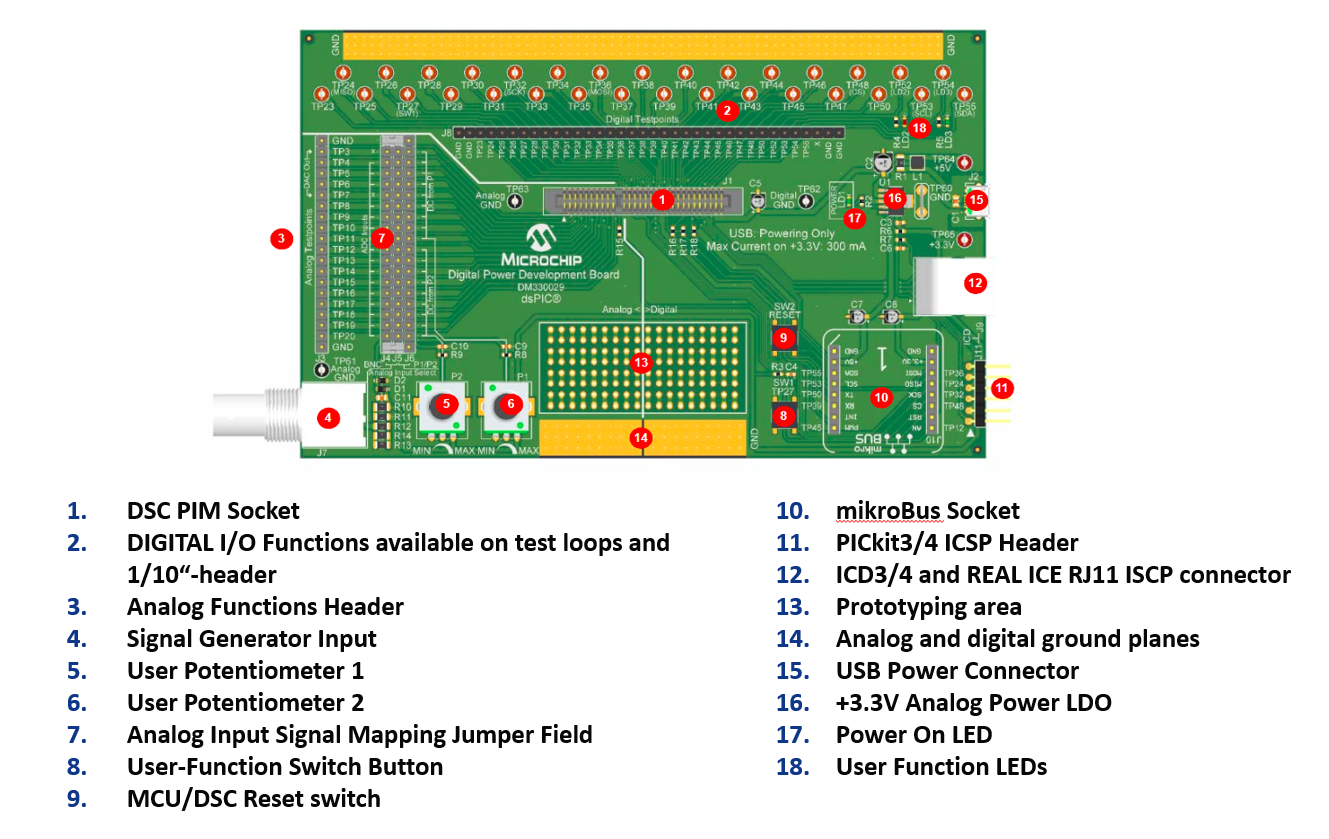
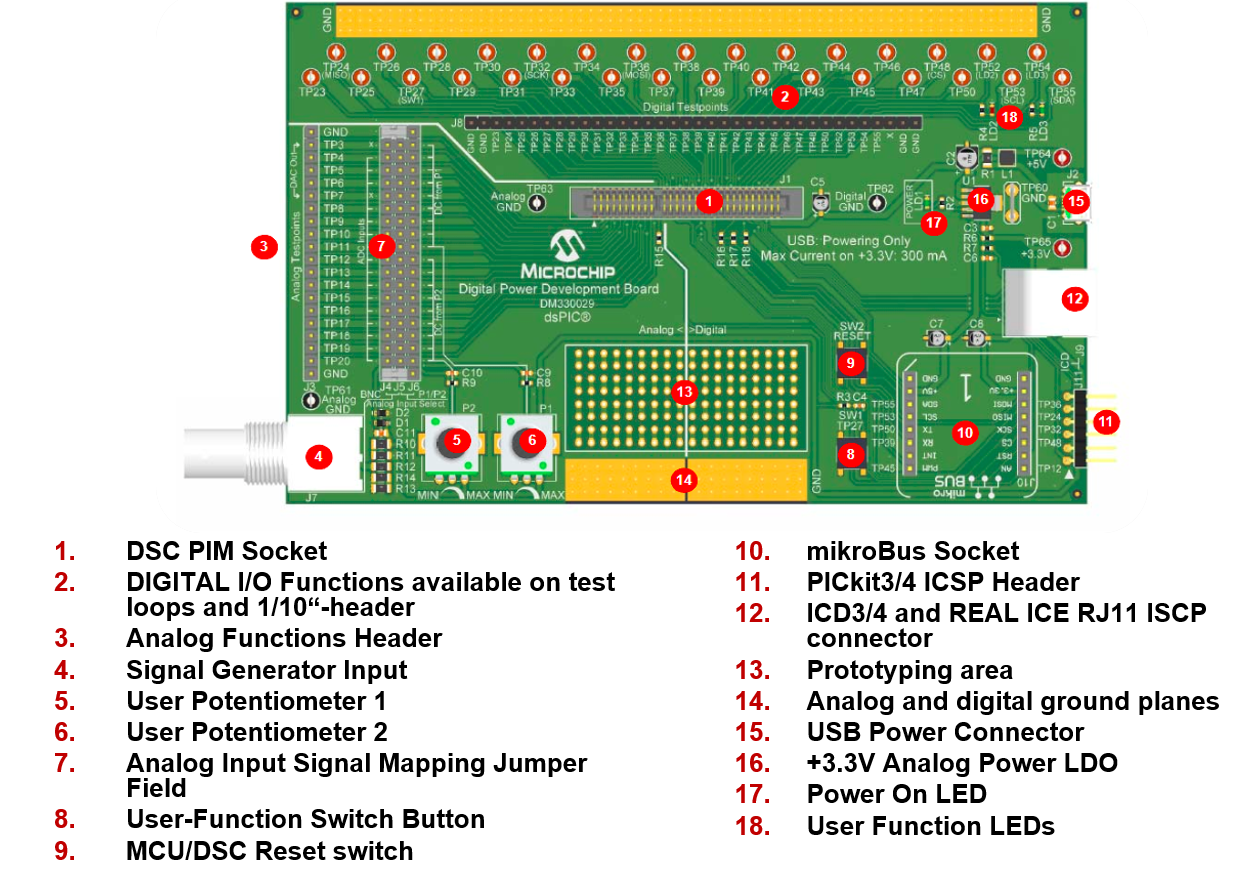
Fixed display issues with line endings and picture size in readme.md

diff --git a/readme.md b/readme.md
@@ -11,14 +11,17 @@
 - - -
 
 ## Summary
-Learning how to use the High Resolution PWM Module of dsPIC33C MP devices, Lab 1:
-Code example for dsPIC33CK and dsPIC33CH devices showing a basic configuration of the high-resolution PWM module using one PWM generator channel generating a single, complementary PWM waveform
+Learning how to use the High Resolution PWM Module of dsPIC33C MP devices 
+
+Lab 1: Complementary Waveform Generation
+Code example for dsPIC33CK and dsPIC33CH devices introducing the basic configuration of the high-resolution PWM module using one PWM generator channel generating a single, complementary PWM waveform
 
 - - -
 
 ## Related Documentation
 - [dsPIC33CK256MP508 Family Data Sheet](https://ww1.microchip.com/downloads/en/DeviceDoc/dsPIC33CK256MP508-Family-Data-Sheet-DS70005349G.pdf)
 - [dsPIC33CK256MP508 Family Silicon Errata and Data Sheet Clarification](https://ww1.microchip.com/downloads/en/DeviceDoc/dsPIC33CK256MP508-Family-Silicon-Errata-and-Data-Sheet-Clarification-DS80000796G.pdf)
+
 Alternative Controller Plug-In Module:
 - [dsPIC33CH512MP508 Family Data Sheet](http://ww1.microchip.com/downloads/en/DeviceDoc/dsPIC33CH512MP508-Family-Data-Sheet-DS70005371D.pdf)
 - [dsPIC33CH512MP508 Family Silicon Errata and Data Sheet Clarification](http://ww1.microchip.com/downloads/en/DeviceDoc/dsPIC33CH512MP508-Family-Silicon-Errata-and-Data-Sheet-Clarification-DS80000805F.pdf)
@@ -53,17 +56,17 @@ Alternative Controller Plug-In Module:
 ## Operation
 After the device has been programmed and the MCU starts up, PWM generator #3 is generating a 200 kHz complementary waveform at the PWM3H/PWM3L outputs. 
 
-<br><center><img src="images/pwm200kHz.png" width="400"></center>
+<br><center><img src="images/pwm200kHz.png" width="400"></center><br>
 *200 kHz Switching Frequency Output*
 
 By pressing the on-board push button *USER* on the Digital Power Development Board, the switching frequency is toggled between the initial 200 kHz and 1 MHz.
-<br><center><img src="images/pwm1MHz.png" width="400"></center>
+<br><center><img src="images/pwm1MHz.png" width="400"></center><br>
 *1 MHz Switching Frequency Output*
 
 
 Please refer to section *FIRMWARE QUICK-START GUIDE* below for more information on the initialization process and code structure.
 
-<br><center><img src="images/dm330029-pinmap.png" width="600"></center>
+<br><center><img src="images/dm330029-pinmap.png" width="800"></center><br>
  
 - - -
 
